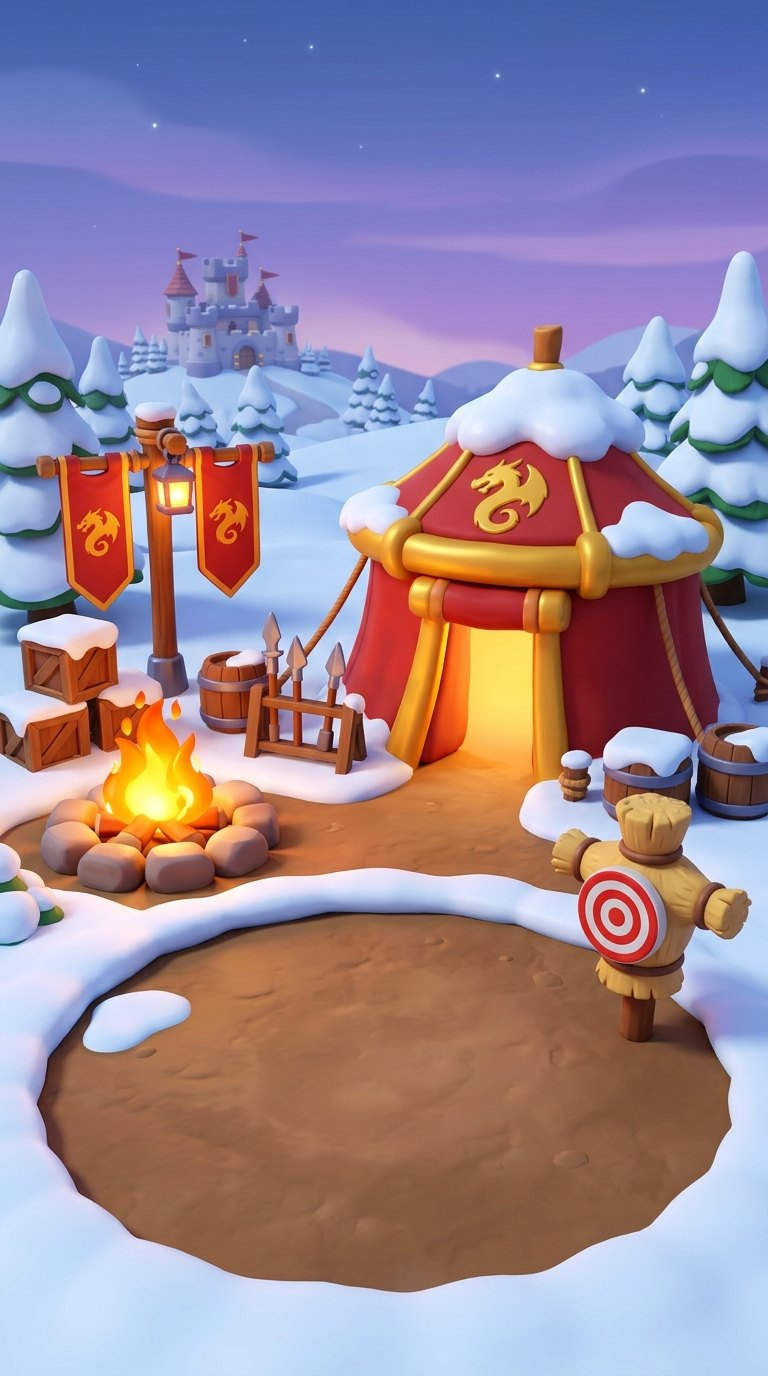
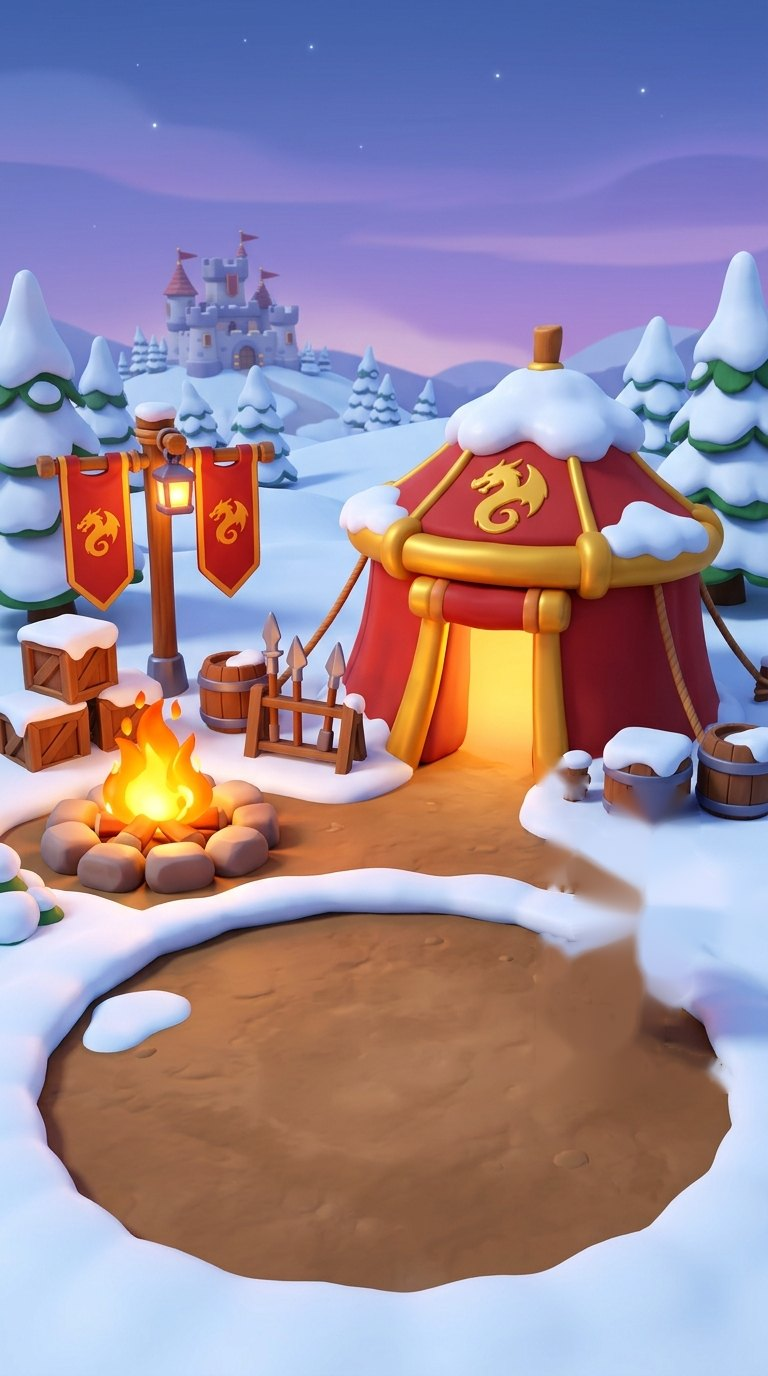
Четыре знамени: герои из блоков (4 роли), 3D-чучело повёрнуто к лагерю, фон без старого чучела
Claude-Session: https://claude.ai/code/session_011Ge5NN4eEdPAyM7CSrYS6N

Changed region(s): [[0.6875, 0.5312, 0.9688, 0.7812], [0.9375, 0.7812, 0.9688, 0.8125], [0.9062, 0.75, 0.9375, 0.7812]]

diff --git a/znameni/zn3d.js b/znameni/zn3d.js
@@ -1,57 +1,193 @@
-// «Четыре знамени» — 3D-герой (KayKit, CC0) поверх нарисованного фона лагеря. Фон — CSS-картинка за прозрачным холстом.
+// «Четыре знамени» — герой из блоков (как в Wargram), собран в коде, поверх нарисованного фона лагеря.
 import * as THREE from '../three.module.js';
-import { GLTFLoader } from '../lib/GLTFLoader.js';
-import { clone as skClone } from '../lib/SkeletonUtils.js';
 
 const FC = { lions: 0xE8B33A, wolves: 0x3F6FC4, dragons: 0xD8302A, ravens: 0x7A4AC8 };
-const MODEL = { warrior: 'barbarian', guard: 'knight', mage: 'mage', archer: 'rogue_hooded' };
-const GEAR = { warrior: ['2H_Axe'], guard: ['1H_Sword', 'Round_Shield'], mage: ['2H_Staff'], archer: ['2H_Crossbow'] };
-const ATTACK = { warrior: '2H_Melee_Attack_Slice', guard: '1H_Melee_Attack_Chop', mage: 'Spellcast_Shoot', archer: '2H_Ranged_Shoot' };
-const GEARNAMES = /Sword|Shield|Axe|Mug|Wand|Staff|Spellbook|Crossbow|Knife|Throwable|Blade|Bow/;
+const EMB = { lions: '🦁', wolves: '🐺', dragons: '🐉', ravens: '🪶' };
 // где на картинке фона стоит герой и где мишень чучела (доли ширины/высоты картинки)
-export const BG = { w: 768, h: 1376, hero: [0.38, 0.735], dummyBase: [0.835, 0.745], target: [0.81, 0.668] };
+export const BG = { w: 768, h: 1376, hero: [0.38, 0.735], dummyBase: [0.835, 0.755], dummyTop: [0.83, 0.576], target: [0.81, 0.668] };
+const HERO_H = 1.95, HERO_K = 1.2, HERO_THIN = 0.78; // герой на голову выше чучела и стройнее
 
-let R, scene, cam, clock, grad, hero = null, mixer = null, acts = {}, cur = '', LIB = {}, WLIB = {}, CLIPS = {}, SCALE = 1, ready = false;
-let fx = [], role = 'warrior', fac = 'lions', gold = false, auraG = null, busyUntil = 0, el = null, BASE = new THREE.Vector3();
+let R, scene, cam, clock, grad, hero = null, ready = false;
+let skinName = '', fx = [], role = 'warrior', fac = 'lions', gold = false, auraG = null, el = null, BASE = new THREE.Vector3();
+let atk = null, dummy = null, wob = { x: 0, vx: 0, z: 0, vz: 0 }; // текущий удар, чучело, его качание
 const HERO_P = new THREE.Vector3(), TARGET_P = new THREE.Vector3(), ray = new THREE.Raycaster();
 
-function toonGrad() { const d = new Uint8Array([150, 150, 150, 255, 215, 215, 215, 255, 255, 255, 255, 255]); const t = new THREE.DataTexture(d, 3, 1); t.minFilter = t.magFilter = THREE.NearestFilter; t.needsUpdate = true; return t; }
-const M = (c, o = {}) => new THREE.MeshToonMaterial({ color: c, gradientMap: grad, ...o });
+function toonGrad() { const d = new Uint8Array([155, 155, 155, 255, 215, 215, 215, 255, 255, 255, 255, 255]); const t = new THREE.DataTexture(d, 3, 1); t.minFilter = t.magFilter = THREE.NearestFilter; t.needsUpdate = true; return t; }
+const MATS = new Map();
+const M = (c, o = {}) => { const k = c + JSON.stringify(o); if (MATS.has(k)) return MATS.get(k); const m = new THREE.MeshToonMaterial({ color: c, gradientMap: grad, ...o }); MATS.set(k, m); return m; };
+function box(parent, w, h, d, c, x = 0, y = 0, z = 0) { const m = new THREE.Mesh(new THREE.BoxGeometry(w, h, d), c && c.isMaterial ? c : M(c)); m.position.set(x, y, z); m.castShadow = true; parent.add(m); return m; }
+function cyl(parent, rt, rb, h, c, x = 0, y = 0, z = 0, seg = 8) { const m = new THREE.Mesh(new THREE.CylinderGeometry(rt, rb, h, seg), M(c)); m.position.set(x, y, z); m.castShadow = true; parent.add(m); return m; }
+const shade = (c, k) => new THREE.Color(c).multiplyScalar(k).getHex();
+function capeTex(f, trim) { const c = document.createElement('canvas'); c.width = 128; c.height = 192; const g = c.getContext('2d');
+  g.fillStyle = '#' + FC[f].toString(16).padStart(6, '0'); g.fillRect(0, 0, 128, 192);
+  g.fillStyle = '#0002'; for (let x = 0; x < 128; x += 32) g.fillRect(x + 22, 0, 6, 192);
+  g.fillStyle = trim; g.fillRect(0, 176, 128, 16); g.fillRect(0, 0, 128, 8);
+  g.font = '64px system-ui,"Apple Color Emoji","Segoe UI Emoji"'; g.textAlign = 'center'; g.textBaseline = 'middle'; g.fillText(EMB[f], 64, 84);
+  const t = new THREE.CanvasTexture(c); t.colorSpace = THREE.SRGBColorSpace; return t; }
 
-// точка картинки фона (background-size:cover, по центру) -> луч из камеры
+// ---------- герой из блоков ----------
+// Скины — набор цветов/деталей (дальше — продажа в Лавке).
+const SKINS = {
+  base: { metal: 0xB8C0CC, metalD: 0x6E7682, trim: 0xE8B931, skin: 0xF0C49A, pants: 0x3A3048, boots: 0x5A3A22, hair: 0x5A3420 },
+  gold: { metal: 0xF2C84A, metalD: 0xB0841C, trim: 0xFFF0A0, skin: 0xF0C49A, pants: 0x4A3418, boots: 0x6A4420, hair: 0x5A3420 },
+};
+function buildCapy() { // капибара на 4 лапах, без доспехов: платок знамени и мандарин
+  const fur = 0x9A6A40, furD = 0x7A5030, furL = 0xB07E50, fc = FC[fac];
+  const g = new THREE.Group(), body = new THREE.Group(); g.add(body); const P = { g, body, capy: true, legs: [] };
+  body.position.y = .5; box(body, .64, .58, 1.04, fur, 0, 0, 0); box(body, .56, .1, .9, furL, 0, -.3, 0); box(body, .5, .14, .2, furD, 0, .2, -.48);
+  for (const [x, z] of [[-.2, .32], [.2, .32], [-.2, -.32], [.2, -.32]]) { const l = new THREE.Group(); l.position.set(x, .26, z); g.add(l); box(l, .18, .26, .2, furD, 0, -.13, 0); box(l, .2, .06, .23, 0x4A3020, 0, -.23, .02); P.legs.push(l); }
+  const head = new THREE.Group(); head.position.set(0, .3, .5); body.add(head); P.head = head;
+  box(head, .46, .42, .5, fur, 0, .02, .16); box(head, .42, .32, .16, furD, 0, -.04, .46); box(head, .24, .06, .02, 0x2a1a10, 0, .06, .545);
+  for (const sx of [-1, 1]) { box(head, .02, .06, .08, 0x111111, sx * .231, .12, .26); box(head, .1, .1, .07, furD, sx * .16, .25, .0); }
+  box(head, .02, .05, .02, 0x2a1a10, -.06, -.08, .545); box(head, .02, .05, .02, 0x2a1a10, .06, -.08, .545);
+  const or = box(head, .2, .17, .2, 0xFF8A1A, 0, .31, .12); box(or, .04, .05, .04, 0x5A3A1A, 0, .1, 0); box(or, .12, .02, .06, 0x3FA03A, .06, .11, 0).rotation.z = -.3;
+  box(body, .66, .16, .14, fc, 0, .18, .44); const tip = box(body, .2, .3, .04, fc, -.12, .02, .52); tip.rotation.z = .3; P.scarf = tip;
+  return P;
+}
+function buildHero() {
+  if (skinName === 'capybara') return buildCapy();
+  const CAPY = skinName === 'capybara';
+  const S = CAPY ? { ...(gold ? SKINS.gold : SKINS.base), skin: 0x8A5A34, pants: 0x9A6A40, boots: 0x6A4426 } : gold ? SKINS.gold : SKINS.base, fc = FC[fac], fcd = shade(fc, .7), trimHex = '#' + S.trim.toString(16).padStart(6, '0');
+  const g = new THREE.Group(), body = new THREE.Group(); g.add(body); const P = { g, body };
+  for (const s of [-1, 1]) { const leg = new THREE.Group(); leg.position.set(s * .13, .8, 0); body.add(leg);
+    box(leg, .2, .5, .22, S.pants, 0, -.25, 0);
+    box(leg, .22, .32, .26, role === 'mage' || role === 'archer' ? S.boots : S.metalD, 0, -.62, .02);
+    box(leg, .23, .08, .3, S.boots, 0, -.76, .04);
+    if (role === 'warrior' || role === 'guard') box(leg, .22, .16, .05, S.metal, 0, -.42, .12);
+    P[s < 0 ? 'legL' : 'legR'] = leg; }
+  const torso = new THREE.Group(); torso.position.y = .8; body.add(torso); P.torso = torso;
+  if (role === 'mage') { box(torso, .5, .62, .3, fc, 0, .31, 0); box(torso, .56, .5, .36, fcd, 0, -.12, 0); box(torso, .52, .07, .32, S.trim, 0, .14, 0); }
+  else if (role === 'archer') { box(torso, .5, .6, .3, 0x4A6A3A, 0, .3, 0); box(torso, .52, .08, .32, 0x6A4424, 0, .1, 0); box(torso, .2, .6, .02, fc, 0, .3, .16); }
+  else { box(torso, .52, .6, .3, S.metal, 0, .3, 0); box(torso, .36, .5, .02, fc, 0, .26, .16); box(torso, .54, .08, .32, 0x6A4424, 0, .06, 0); box(torso, .08, .08, .04, S.trim, 0, .06, .17); box(torso, .3, .18, .02, fc, 0, -.07, .16); }
+  const cape = new THREE.Group(); cape.position.set(0, .58, -.17); torso.add(cape); P.cape = cape;
+  const cm = new THREE.MeshToonMaterial({ map: capeTex(fac, trimHex), gradientMap: grad, side: THREE.DoubleSide });
+  const ch = role === 'mage' ? 1.12 : .95; box(cape, .54, ch, .035, cm, 0, -ch / 2, 0);
+  const head = new THREE.Group(); head.position.y = .62; torso.add(head); P.head = head;
+  if (CAPY) { // голова капибары: длинная морда, маленькие ушки, мандарин на макушке
+    const fur = 0x9A6A40, furD = 0x7A5030;
+    box(head, .4, .34, .46, fur, 0, .2, .04); box(head, .36, .26, .14, furD, 0, .14, .32); box(head, .22, .06, .02, 0x2a1a10, 0, .22, .395);
+    box(head, .02, .05, .02, 0x2a1a10, -.05, .12, .395); box(head, .02, .05, .02, 0x2a1a10, .05, .12, .395);
+    for (const sx of [-1, 1]) { box(head, .02, .06, .07, 0x111111, sx * .201, .28, .16); box(head, .09, .09, .06, furD, sx * .14, .4, -.12); }
+    box(head, .42, .12, .3, furD, 0, .3, -.06).visible = false;
+    const or = box(head, .17, .14, .17, 0xFF8A1A, 0, .44, -.02); box(or, .04, .05, .04, 0x5A3A1A, 0, .09, 0); box(or, .1, .02, .05, 0x3FA03A, .05, .1, 0).rotation.z = -.3;
+  } else {
+  box(head, .34, .34, .32, S.skin, 0, .19, 0);
+  box(head, .06, .05, .02, 0x2a2a30, -.08, .21, .165); box(head, .06, .05, .02, 0x2a2a30, .08, .21, .165);
+  if (role === 'warrior') { box(head, .38, .2, .36, S.metal, 0, .33, 0); box(head, .4, .05, .38, S.trim, 0, .24, 0); box(head, .08, .22, .3, fc, 0, .52, -.04); box(head, .3, .12, .06, S.hair, 0, .07, .16); box(head, .38, .3, .06, S.metal, 0, .18, -.18); }
+  else if (role === 'guard') { box(head, .4, .42, .38, S.metal, 0, .2, 0); box(head, .3, .04, .02, 0x15151a, 0, .2, .2); box(head, .04, .14, .02, 0x15151a, 0, .12, .2); box(head, .42, .05, .4, S.trim, 0, .4, 0); box(head, .05, .2, .32, fc, 0, .5, -.02); }
+  else if (role === 'mage') { box(head, .3, .12, .06, 0xE8E8EE, 0, .02, .17); box(head, .14, .18, .06, 0xE8E8EE, 0, -.08, .17);
+    box(head, .56, .05, .56, fcd, 0, .38, 0); box(head, .36, .22, .36, fc, 0, .51, 0); box(head, .37, .05, .37, S.trim, 0, .44, 0); box(head, .24, .2, .24, fc, -.02, .7, -.03).rotation.z = .2; box(head, .12, .16, .12, fc, -.06, .86, -.07).rotation.z = .45; }
+  else { box(head, .4, .4, .4, 0x3E5A30, 0, .24, -.02); box(head, .3, .06, .02, 0x3E5A30, 0, .38, .19); box(head, .3, .3, .2, 0x3E5A30, 0, .02, -.24).rotation.x = -.5; box(head, .26, .08, .04, S.hair, 0, .07, .16); } }
+  for (const s of [-1, 1]) { const arm = new THREE.Group(); arm.position.set(s * .35, .55, 0); torso.add(arm);
+    const sleeve = role === 'mage' ? fc : role === 'archer' ? 0x4A6A3A : S.metal;
+    box(arm, .17, .36, .18, sleeve, 0, -.16, 0); box(arm, .16, .26, .17, role === 'mage' || role === 'archer' ? sleeve : S.metalD, 0, -.42, 0); box(arm, .15, .1, .16, S.skin, 0, -.59, 0);
+    if (role === 'warrior' || role === 'guard') { box(arm, .24, .14, .24, S.metal, 0, .02, 0); box(arm, .25, .04, .25, S.trim, 0, -.05, 0); }
+    if (role === 'mage') box(arm, .2, .06, .2, S.trim, 0, -.53, 0);
+    const hand = new THREE.Group(); hand.position.y = -.6; arm.add(hand);
+    P[s < 0 ? 'armL' : 'armR'] = arm; P[s < 0 ? 'handL' : 'handR'] = hand; }
+  if (role === 'warrior') { const w = new THREE.Group(); w.rotation.x = -.9; P.handR.add(w); box(w, .05, .05, .2, 0x6A4424, 0, 0, 0); box(w, .26, .05, .06, S.trim, 0, 0, .12); box(w, .09, .03, .8, 0xE6EAF0, 0, 0, .55); box(w, .06, .035, .12, 0xE6EAF0, 0, 0, 1.0); box(w, .06, .06, .06, S.trim, 0, 0, -.12);
+    const sh = new THREE.Group(); sh.position.set(-.1, .12, .08); P.handL.add(sh); cyl(sh, .26, .26, .06, fc, 0, 0, 0, 12).rotation.z = Math.PI / 2; cyl(sh, .28, .28, .04, S.trim, .01, 0, 0, 12).rotation.z = Math.PI / 2; cyl(sh, .07, .07, .08, S.metal, -.03, 0, 0, 8).rotation.z = Math.PI / 2; }
+  if (role === 'guard') { const w = new THREE.Group(); w.rotation.x = -.9; P.handR.add(w); box(w, .06, .06, .7, 0x6A4424, 0, 0, .2); box(w, .2, .2, .2, S.metalD, 0, 0, .6); for (let a = 0; a < 4; a++) box(w, .06, .06, .12, S.metal, Math.cos(a * Math.PI / 2) * .13, Math.sin(a * Math.PI / 2) * .13, .6);
+    const sh = new THREE.Group(); sh.position.set(-.12, .15, .1); P.handL.add(sh); box(sh, .06, .8, .5, fc, 0, 0, 0); box(sh, .07, .84, .06, S.trim, 0, 0, .25); box(sh, .07, .84, .06, S.trim, 0, 0, -.25); box(sh, .07, .06, .5, S.trim, 0, .4, 0); box(sh, .07, .06, .5, S.trim, 0, -.4, 0); box(sh, .08, .2, .2, S.trim, 0, .05, 0); }
+  if (role === 'mage') { const w = new THREE.Group(); P.handR.add(w); w.rotation.x = Math.PI / 2 - .9; box(w, .06, 1.5, .06, 0x6A4424, 0, .2, 0); box(w, .14, .06, .14, S.trim, 0, .92, 0);
+    const cr = new THREE.Mesh(new THREE.OctahedronGeometry(.13), new THREE.MeshBasicMaterial({ color: 0xFFB040 })); cr.position.y = 1.06; w.add(cr); P.crystal = cr;
+    const gl = new THREE.Mesh(new THREE.SphereGeometry(.22, 12, 8), new THREE.MeshBasicMaterial({ color: 0xFF8A20, transparent: true, opacity: .3, depthWrite: false })); gl.position.y = 1.06; w.add(gl); P.glow = gl;
+    const pl = new THREE.PointLight(0xff9a30, 2.5, 3); pl.position.y = 1.06; w.add(pl); }
+  if (role === 'archer') { const bow = new THREE.Group(); P.handL.add(bow); bow.rotation.x = Math.PI / 2;
+    for (const s of [-1, 1]) { box(bow, .05, .45, .05, 0x7A4A24, 0, s * .24, .06).rotation.x = s * .35; box(bow, .06, .06, .06, S.trim, 0, s * .45, .14); }
+    box(bow, .05, .14, .06, 0x3a2414, 0, 0, 0); P.string = box(bow, .012, .92, .012, 0xEEEEEE, 0, 0, .19);
+    const quiver = box(P.torso, .14, .5, .14, 0x6A4424, .14, .42, -.22); quiver.rotation.z = -.35; for (let i = 0; i < 3; i++) box(quiver, .03, .12, .03, 0xE8E8E8, -.03 + i * .03, .3, 0); }
+  return P;
+}
+
+// ---------- чучело из блоков (вместо нарисованного) ----------
+function targetTex() { const c = document.createElement('canvas'); c.width = c.height = 128; const g = c.getContext('2d');
+  for (const [col, r] of [['#f4eee0', 64], ['#d8302a', 52], ['#f4eee0', 38], ['#d8302a', 24], ['#f4eee0', 10]]) { g.fillStyle = col; g.beginPath(); g.arc(64, 64, r, 0, 7); g.fill(); }
+  const t = new THREE.CanvasTexture(c); t.colorSpace = THREE.SRGBColorSpace; return t; }
+function buildDummy() {
+  const root = new THREE.Group(), body = new THREE.Group(); root.add(body); root.userData.body = body;
+  const straw = 0xE6B85A, strawD = 0xC8923C, rope = 0x7A4A28, wood = 0x7A4A28;
+  box(body, .1, .46, .1, wood, 0, .23, 0);
+  box(body, .4, .14, .34, strawD, 0, .48, 0); for (let i = 0; i < 5; i++) box(body, .06, .1, .36, straw, -.16 + i * .08, .42, 0);
+  box(body, .4, .36, .32, straw, 0, .7, 0); box(body, .42, .05, .34, rope, 0, .55, 0);
+  box(body, .86, .13, .13, straw, 0, .76, 0); for (const sx of [-1, 1]) { box(body, .05, .17, .17, rope, sx * .33, .76, 0); box(body, .1, .15, .15, strawD, sx * .45, .76, 0); }
+  box(body, .2, .06, .2, rope, 0, .9, 0); box(body, .26, .22, .24, straw, 0, 1.0, 0); for (let i = 0; i < 4; i++) box(body, .05, .08, .2, strawD, -.09 + i * .06, 1.14, 0);
+  const tg = new THREE.Mesh(new THREE.CylinderGeometry(.17, .17, .04, 24), [M(0xd8302a), new THREE.MeshToonMaterial({ map: targetTex(), gradientMap: grad }), M(0xd8302a)]);
+  tg.rotation.x = Math.PI / 2; tg.position.set(-.04, .7, .18); tg.castShadow = true; body.add(tg); root.userData.target = tg;
+  return root;
+}
 function bgRay(fx_, fy_) { const W = el.clientWidth, H = el.clientHeight, s = Math.max(W / BG.w, H / BG.h), dw = BG.w * s, dh = BG.h * s, x = (W - dw) / 2 + fx_ * dw, y = (H - dh) / 2 + fy_ * dh;
   ray.setFromCamera(new THREE.Vector2(x / W * 2 - 1, -(y / H) * 2 + 1), cam); return ray.ray; }
 function onGround(p) { const o = new THREE.Vector3(); bgRay(...p).intersectPlane(new THREE.Plane(new THREE.Vector3(0, 1, 0), 0), o); return o; }
-
 function place() {
   if (!el || !el.clientWidth) return;
   HERO_P.copy(onGround(BG.hero)); BASE.copy(onGround(BG.dummyBase));
   const n = new THREE.Vector3().subVectors(cam.position, BASE).setY(0).normalize();
   if (!bgRay(...BG.target).intersectPlane(new THREE.Plane().setFromNormalAndCoplanarPoint(n, BASE), TARGET_P)) TARGET_P.copy(BASE).setY(1.2);
-  if (hero) { hero.position.copy(HERO_P); hero.rotation.y = Math.atan2(BASE.x - HERO_P.x, BASE.z - HERO_P.z); }
+  const top = new THREE.Vector3(); bgRay(...BG.dummyTop).intersectPlane(new THREE.Plane().setFromNormalAndCoplanarPoint(n, BASE), top); const DH = Math.max(.5, top.y - BASE.y);
+  if (!dummy) { dummy = buildDummy(); scene.add(dummy); }
+  dummy.position.copy(BASE); { const k = DH / 1.18; dummy.scale.set(k * .72, k * .88, k * .72); }
+  const toHero = Math.atan2(HERO_P.x - BASE.x, HERO_P.z - BASE.z), toCam = Math.atan2(cam.position.x - BASE.x, cam.position.z - BASE.z);
+  dummy.rotation.y = toCam + (toHero - toCam) * .55; dummy.updateMatrixWorld(true);
+  dummy.userData.target.getWorldPosition(TARGET_P);
+  if (hero) { hero.g.position.copy(HERO_P); const yd = Math.atan2(BASE.x - HERO_P.x, BASE.z - HERO_P.z); hero.g.rotation.y = hero.capy ? Math.PI + (yd - Math.PI) * .85 : Math.PI + (yd - Math.PI) * (role === 'archer' ? .75 : .5); if (faceCam) hero.g.rotation.y = Math.atan2(cam.position.x - HERO_P.x, cam.position.z - HERO_P.z) - .35; { const k = DH * HERO_K / HERO_H; hero.g.scale.set(k * HERO_THIN, k, k * HERO_THIN); } }
   if (auraG) auraG.position.copy(HERO_P);
 }
-
 function makeHero() {
-  if (hero) { scene.remove(hero); hero = null; } if (auraG) { scene.remove(auraG); auraG = null; }
-  const src = LIB[MODEL[role]]; if (!src) return;
-  hero = skClone(src); hero.scale.setScalar(SCALE);
-  const byName = {}; hero.traverse(o => { if (o.name) byName[o.name] = o; if (o.isMesh) { o.castShadow = true; o.frustumCulled = false; } });
-  hero.traverse(o => { if (o.isMesh && !o.isSkinnedMesh && GEARNAMES.test(o.name)) o.visible = false; });
-  for (const wn of GEAR[role]) { let m = byName[wn]; if (!m && WLIB[wn]) { m = WLIB[wn].clone(); const slot = byName[/Shield/.test(wn) ? 'handslot.l' : 'handslot.r']; slot && slot.add(m); } if (m) m.visible = true; }
-  hero.traverse(o => { if (o.isMesh && /_Cape$/.test(o.name)) { o.material = o.material.clone(); o.material.map = null; o.material.color.setHex(FC[fac]); } });
-  scene.add(hero);
-  mixer = new THREE.AnimationMixer(hero); acts = {}; for (const [n, c] of Object.entries(CLIPS)) acts[n] = mixer.clipAction(c);
-  cur = ''; play('Idle');
+  if (hero) scene.remove(hero.g); if (auraG) scene.remove(auraG);
+  hero = buildHero(); scene.add(hero.g);
   auraG = new THREE.Group(); const ring = new THREE.Mesh(new THREE.RingGeometry(.48, .62, 40), new THREE.MeshBasicMaterial({ color: gold ? 0xFFD75A : FC[fac], transparent: true, opacity: .9 })); ring.rotation.x = -Math.PI / 2; ring.position.y = .03; auraG.add(ring);
   if (gold) { const glow = new THREE.Mesh(new THREE.CylinderGeometry(.7, .7, 2.4, 24, 1, true), new THREE.MeshBasicMaterial({ color: 0xFFD75A, transparent: true, opacity: .18, side: THREE.DoubleSide, depthWrite: false })); glow.position.y = 1.2; auraG.add(glow); }
   scene.add(auraG); place();
 }
-function play(n, once = false, speed = 1) {
-  const a = acts[n]; if (!a) return; const prev = cur && acts[cur];
-  a.reset(); a.setLoop(once ? THREE.LoopOnce : THREE.LoopRepeat); a.clampWhenFinished = once; a.timeScale = speed; a.enabled = true; a.setEffectiveWeight(1);
-  if (prev && prev !== a) a.crossFadeFrom(prev, once ? .06 : .2, false); a.play(); cur = n;
+
+const ease = x => x < 0 ? 0 : x > 1 ? 1 : x * x * (3 - 2 * x);
+function animateCapy(P, t, dt) {
+  const br = Math.sin(t * 2.2); let lunge = 0, dip = 0;
+  if (atk) { if (!atk.freeze) atk.t += dt; const p = atk.t / atk.dur;
+    if (role === 'warrior' || role === 'guard') { const back = ease(p / .35), go = ease((p - .35) / .2), ret = ease((p - .65) / .35); lunge = -.15 * back + .55 * go - .4 * ret; dip = .25 * go - .25 * ret;
+      if (!atk.hit && p > .52) { atk.hit = true; hit(role === 'warrior' ? 1.2 : 1); } }
+    else { const up = ease(p / .4), dn = ease((p - .4) / .2), ret = ease((p - .7) / .3); dip = -.3 * up + .5 * dn - .2 * ret; lunge = .08 * dn - .08 * ret;
+      if (!atk.shot && p > .5) { atk.shot = true; projectile(); } }
+    if (p >= 1) atk = null; }
+  P.body.position.z = lunge; P.body.position.y = .5 + br * .015; P.body.scale.y = 1 + br * .02;
+  P.head.rotation.x = dip + Math.sin(t * 1.3) * .04; P.legs.forEach((l, i) => { l.position.z = [.32, .32, -.32, -.32][i] + lunge * (i < 2 ? 1 : .6); });
+  P.scarf.rotation.x = -.2 + Math.sin(t * 3) * .1;
 }
+function animate(t, dt) {
+  const P = hero; if (!P) return; if (P.capy) return animateCapy(P, t, dt);
+  const br = Math.sin(t * 2.2);
+  let armRx = -.25, armRz = -.08, armLx = -.35, armLz = .1, torY = 0, lean = 0, crouch = 0;
+  if (role === 'mage') { armRx = -.55; armLx = -.2; }
+  if (role === 'archer') { armLx = -1.45; armLz = 0; armRx = -1.2; armRz = -.4; }
+  if (role === 'guard') { armLx = -.9; armLz = .35; }
+  if (atk) { if (!atk.freeze) atk.t += dt; const p = atk.t / atk.dur;
+    if (role === 'warrior' || role === 'guard') {
+      const up = ease(p / .4), down = ease((p - .4) / .2), back = ease((p - .72) / .28);
+      armRx = -.25 - 2.65 * up + 1.9 * down + .75 * back;
+      torY = .35 * up - .7 * down + .35 * back; lean = .12 * down - .12 * back; crouch = .06 * down - .06 * back;
+      if (role === 'guard') armLx = -.9 - .5 * down + .5 * back;
+      if (!atk.hit && p > .52) { atk.hit = true; hit(role === 'warrior' ? 1.2 : 1); }
+    } else if (role === 'mage') {
+      const up = ease(p / .45), fw = ease((p - .45) / .15), back = ease((p - .7) / .3);
+      armRx = -.55 - 2.3 * up + 1.1 * fw + 1.2 * back; armLx = -.2 - 1.0 * up + 1.0 * back; lean = .1 * fw - .1 * back; torY = -.25 * up + .25 * back;
+      if (P.glow) P.glow.scale.setScalar(1 + 1.5 * up * (1 - fw));
+      if (!atk.shot && p > .55) { atk.shot = true; projectile(); }
+    } else {
+      const pull = ease(p / .45), rel = p > .5 ? 1 : 0;
+      armRz = -.4 - .9 * pull * (1 - rel); if (P.string) P.string.position.z = .19 - .3 * pull * (1 - rel);
+      lean = -.05 * pull * (1 - rel);
+      if (!atk.shot && p > .5) { atk.shot = true; projectile(); }
+    }
+    if (p >= 1) atk = null;
+  }
+  P.armR.rotation.set(armRx + br * .03, 0, armRz); P.armL.rotation.set(armLx - br * .03, 0, armLz);
+  P.torso.rotation.set(lean, torY, 0); P.torso.position.y = .8 + br * .012 - crouch; P.head.rotation.x = -lean * .6;
+  P.cape.rotation.x = .12 + Math.sin(t * 1.7) * .05 + Math.abs(torY) * .25 + lean * .5;
+  P.legL.rotation.x = .08; P.legR.rotation.x = -.08; P.legL.position.y = P.legR.position.y = .8 - crouch;
+  if (P.crystal) P.crystal.rotation.y = t * 2;
+}
+
 function burst(n = 10) {
   for (let i = 0; i < n; i++) { const m = new THREE.Mesh(new THREE.BoxGeometry(.07, .025, .2), M(Math.random() < .5 ? 0xF2D06A : 0xD9AA4A));
     m.position.copy(TARGET_P).add(new THREE.Vector3((Math.random() - .5) * .3, (Math.random() - .5) * .4, .1)); scene.add(m);
@@ -60,25 +196,26 @@ function burst(n = 10) {
   fl.position.copy(TARGET_P); scene.add(fl); fx.push({ m: fl, flash: true, life: .18 });
 }
 function projectile() {
-  const dir = TARGET_P.clone().sub(HERO_P).setY(0).normalize(), from = HERO_P.clone().addScaledVector(dir, .5).add(new THREE.Vector3(0, 1.2, 0));
-  const m = role === 'mage' ? new THREE.Mesh(new THREE.SphereGeometry(.17, 12, 8), new THREE.MeshBasicMaterial({ color: 0xFFD27A }))
-    : new THREE.Mesh(new THREE.CylinderGeometry(.03, .03, .6, 6).rotateX(Math.PI / 2), M(0x8A5A2A));
+  const dir = TARGET_P.clone().sub(HERO_P).setY(0).normalize(), from = HERO_P.clone().addScaledVector(dir, .55).add(new THREE.Vector3(0, 1.35, 0));
+  const m = role === 'mage' ? new THREE.Mesh(new THREE.SphereGeometry(.17, 12, 8), new THREE.MeshBasicMaterial({ color: 0xFFD27A })) : new THREE.Mesh(new THREE.BoxGeometry(.04, .04, .7), M(0xE8E8E8));
   if (role === 'mage') { m.add(new THREE.Mesh(new THREE.SphereGeometry(.32, 12, 8), new THREE.MeshBasicMaterial({ color: 0xFF7A20, transparent: true, opacity: .45 }))); m.add(new THREE.PointLight(0xffa040, 5, 3)); }
   m.position.copy(from); m.lookAt(TARGET_P); scene.add(m);
   fx.push({ m, from, to: TARGET_P.clone(), t: 0, dur: role === 'mage' ? .26 : .15, proj: true });
 }
-function hit(k = 1) { burst(role === 'mage' ? 14 : 10); el.dispatchEvent(new CustomEvent('zn-hit', { detail: k, bubbles: true })); }
+function hit(k = 1) { wob.vx -= 7 * k; wob.vz += (Math.random() - .5) * 4 * k; burst(role === 'mage' ? 14 : 10); el.dispatchEvent(new CustomEvent('zn-hit', { detail: k, bubbles: true })); }
+
 export function attack() {
   if (!ready || !hero) return;
-  const now = performance.now(), clip = ATTACK[role], dur = (CLIPS[clip]?.duration || .8), speed = now < busyUntil ? 2.6 : 1.8;
-  play(clip, true, speed); busyUntil = now + dur / speed * 750;
-  setTimeout(() => { if (role === 'mage' || role === 'archer') projectile(); else hit(role === 'warrior' ? 1.2 : 1); }, dur / speed * 420);
-  clearTimeout(attack.t); attack.t = setTimeout(() => play('Idle'), dur / speed * 1000 + 60);
+  if (atk && atk.t / atk.dur < .55) { atk.dur = Math.max(.22, atk.dur * .85); return; }
+  atk = { t: 0, dur: atk ? .3 : .42, hit: false, shot: false };
 }
+let faceCam = false; export function debugFace(v = true) { faceCam = v; place(); }
+export function setSkin(n) { n = n || ''; if (n !== skinName) { skinName = n; if (ready) makeHero(); } }
 export function setHero(f, r, g) {
   const ch = (f || 'lions') !== fac || (r || 'warrior') !== role || !!g !== gold; fac = f || 'lions'; role = r || 'warrior'; gold = !!g;
   if (ready && (ch || !hero)) makeHero();
 }
+export function debugPose(p) { atk = { t: p * .42, dur: .42, hit: true, shot: true, freeze: true }; } // для скриншотов
 
 export async function init(container) {
   el = container;
@@ -86,18 +223,21 @@ export async function init(container) {
   R.shadowMap.enabled = true; R.shadowMap.type = THREE.PCFSoftShadowMap; R.outputColorSpace = THREE.SRGBColorSpace;
   el.innerHTML = ''; el.appendChild(R.domElement); R.domElement.style.cssText = 'width:100%;height:100%;display:block';
   scene = new THREE.Scene(); grad = toonGrad(); clock = new THREE.Clock();
-  cam = new THREE.PerspectiveCamera(30, 1, .1, 200); cam.position.set(0, 9, 17); cam.lookAt(0, 0.5, 0);
-  // яркий мультяшный свет: тёплый от костра слева, холодный заполняющий справа
-  scene.add(new THREE.HemisphereLight(0xffffff, 0xb8c4e8, 1.9));
-  const key = new THREE.DirectionalLight(0xfff0d8, 2.2); key.position.set(-3, 6, 5); key.castShadow = true; key.shadow.mapSize.set(1024, 1024); Object.assign(key.shadow.camera, { left: -6, right: 6, top: 6, bottom: -6 }); scene.add(key);
-  const rim = new THREE.DirectionalLight(0xffb070, 1.6); rim.position.set(-5, 3, -4); scene.add(rim);
-  const fill = new THREE.DirectionalLight(0xa8c8ff, .8); fill.position.set(5, 2, -2); scene.add(fill);
+  cam = new THREE.PerspectiveCamera(30, 1, .1, 200); cam.position.set(0, 9, 17); cam.lookAt(0, .5, 0);
+  scene.add(new THREE.HemisphereLight(0xffffff, 0xb8c4e8, 1.8));
+  const key = new THREE.DirectionalLight(0xfff0d8, 2.0); key.position.set(-3, 6, 5); key.castShadow = true; key.shadow.mapSize.set(1024, 1024); Object.assign(key.shadow.camera, { left: -6, right: 6, top: 6, bottom: -6 }); scene.add(key);
+  const rim = new THREE.DirectionalLight(0xffb070, 1.8); rim.position.set(-5, 3, -4); scene.add(rim);
+  const fill = new THREE.DirectionalLight(0xa8c8ff, .9); fill.position.set(5, 2, -2); scene.add(fill);
   const sp = new THREE.Mesh(new THREE.PlaneGeometry(40, 40), new THREE.ShadowMaterial({ opacity: .32 })); sp.rotation.x = -Math.PI / 2; sp.receiveShadow = true; scene.add(sp);
   const fit = () => { const w = el.clientWidth, h = el.clientHeight; if (!w || !h) return; R.setSize(w, h, false); cam.aspect = w / h; cam.updateProjectionMatrix(); place(); };
   new ResizeObserver(fit).observe(el); fit();
+  ready = true; makeHero();
   R.setAnimationLoop(() => {
-    const dt = Math.min(.05, clock.getDelta());
-    if (mixer) mixer.update(dt); if (auraG) auraG.rotation.y += dt * 1.5;
+    const dt = Math.min(.05, clock.getDelta()), t = clock.elapsedTime;
+    animate(t, dt);
+    if (dummy) { wob.vx += (-wob.x * 70 - wob.vx * 7) * dt; wob.x += wob.vx * dt; wob.vz += (-wob.z * 70 - wob.vz * 7) * dt; wob.z += wob.vz * dt;
+      const b = dummy.userData.body; b.rotation.x = wob.x * .15; b.rotation.z = wob.z * .15; }
+    if (auraG) auraG.rotation.y += dt * 1.5;
     fx = fx.filter(f => {
       if (f.proj) { f.t += dt / f.dur; f.m.position.lerpVectors(f.from, f.to, Math.min(1, f.t)); if (f.t >= 1) { scene.remove(f.m); hit(role === 'mage' ? 1.3 : 1); return false; } return true; }
       f.life -= dt; if (f.flash) { f.m.scale.setScalar(1 + (0.18 - f.life) * 9); f.m.material.opacity = Math.max(0, f.life / .18); if (f.life <= 0) { scene.remove(f.m); return false; } return true; }
@@ -105,12 +245,5 @@ export async function init(container) {
       if (f.m.position.y < .02) { f.m.position.y = .02; f.v.set(0, 0, 0); } if (f.life <= 0) { scene.remove(f.m); return false; } return true; });
     R.render(scene, cam);
   });
-  const ld = new GLTFLoader(), get = u => new Promise((ok, no) => ld.load(u, ok, undefined, no)), names = [...new Set(Object.values(MODEL))];
-  const [an, ...ms] = await Promise.all([get('../m3d/anim.glb'), ...names.map(n => get(`../m3d/${n}.glb`))]);
-  for (const c of an.animations) CLIPS[c.name] = c;
-  ms.forEach((g, i) => { g.scene.traverse(o => { if (o.isMesh) { const m0 = o.material; o.material = new THREE.MeshToonMaterial({ map: m0.map || null, color: m0.map ? 0xffffff : m0.color, gradientMap: grad }); if (o.material.map) o.material.map.colorSpace = THREE.SRGBColorSpace;
-    if (!o.isSkinnedMesh && GEARNAMES.test(o.name) && !WLIB[o.name]) WLIB[o.name] = o; } }); LIB[names[i]] = g.scene; });
-  const box = new THREE.Box3().setFromObject(LIB.knight); SCALE = 1.6 / Math.max(.5, box.max.y - box.min.y);
-  ready = true; makeHero();
   return true;
 }

diff --git a/znameni/tap.html b/znameni/tap.html
@@ -336,6 +336,7 @@ if (ADS_BLOCK) { const sc = document.createElement('script'); sc.src = 'https://
 import * as Z from './zn3d.js';
 try { const c = document.createElement('canvas'); if (!(c.getContext('webgl2') || c.getContext('webgl'))) throw 0;
   window.ZN3D = Z; window.ZN3D_ON = true; Z.init(document.getElementById('king')).catch(e => console.warn('3D', e));
+  // скины (капибара готова в zn3d.js: Z.setSkin('capybara')) — подключим через Лавку позже
   if (window.S && S.hero) Z.setHero(S.hero.f, S.hero.r, S.hero.banner); else Z.setHero('lions', 'warrior', false);
 } catch (e) { window.ZN3D_ON = false; }
 </script>
